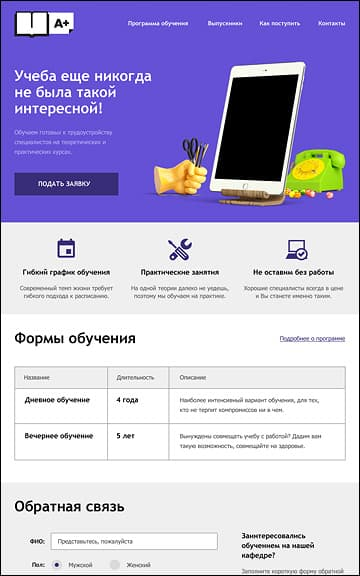
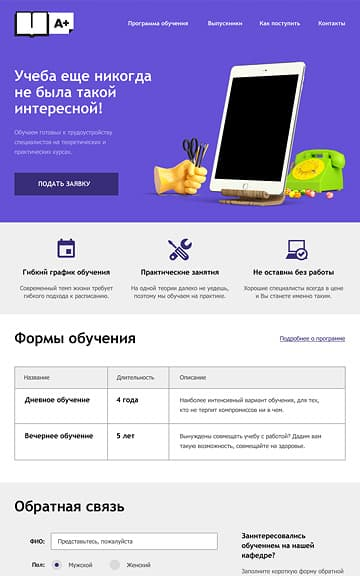
Исправляет изображение в карточках, стилизует рамку

diff --git a/css/styles.min.css b/css/styles.min.css
@@ -1,1 +1,1 @@
-@font-face{font-family:"Roboto";font-style:normal;font-weight:400;src:local("Roboto"),local("Roboto-Regular"),url(../fonts/roboto.woff2) format("woff2"),url(../fonts/roboto.woff) format("woff")}@font-face{font-family:"Roboto";font-style:normal;font-weight:500;src:local("Roboto Medium"),local("Roboto-Medium"),url(../fonts/robotomedium.woff2) format("woff2"),url(../fonts/robotomedium.woff) format("woff")}@font-face{font-family:"Roboto";font-style:normal;font-weight:700;src:local("Roboto Bold"),local("Roboto-Bold"),url(../fonts/robotobold.woff2) format("woff2"),url(../fonts/robotobold.woff) format("woff")}.visually-hidden:not(:focus):not(:active),input[type=checkbox].visually-hidden,input[type=radio].visually-hidden{border:0;clip:rect(0 0 0 0);-webkit-clip-path:inset(100%);clip-path:inset(100%);font-size:1px;height:1px;margin:-1px;overflow:hidden;padding:0;position:absolute;white-space:nowrap;width:1px}.page{position:relative;font-family:Roboto,Arial,sans-serif;background-color:#fff}.main__slider{margin-bottom:80px}.main__services{padding-bottom:82px}.main__about{margin-top:40px}.main__contacts{margin-top:80px}.main__heading{display:block;margin:0 auto;padding-top:70px;padding-bottom:110px;font-size:55px;line-height:55px;font-weight:500;text-align:center;background-color:#eee;border:.1px solid transparent}.wrapper{margin-left:auto;margin-right:auto;width:1160px}.wrapper--full-width{width:1440px}.main-header{padding-top:50px;background-color:#eee}.main-navigation{align-items:center;display:flex}.main-navigation__list{display:flex;margin:10px 0 0 200px;padding:0;width:100%;list-style:none}.main-navigation__item{margin-right:47px}.main-navigation__item:last-of-type{margin-right:0}.main-navigation__item--cart{margin-left:auto;margin-right:0}.main-navigation__link{position:relative;font-size:16px;font-weight:500;line-height:30px;text-decoration:none;text-transform:uppercase;color:inherit}.main-navigation__link:focus,.main-navigation__link:hover{color:#fb565a}.main-navigation__link:active{color:inherit;opacity:.3}.main-navigation__link--current::after{position:absolute;left:0;bottom:-13px;width:100%;height:2px;background-color:#fb565a;content:""}.main-navigation__link--cart::before{position:absolute;top:2px;left:-40px;height:15px;width:15px;background-color:transparent;background-image:url(../img/icon-cart.svg);background-position:center;background-repeat:no-repeat;content:""}.slider{background-color:#eee}.slider__list{margin:0;padding:0;list-style:none}.slider__tagline{margin:73px 0 25px;width:560px;font-size:55px;font-weight:500;line-height:55px}.slider__description{margin:0 0 40px;font-size:16px;line-height:24px}.slider__button{width:240px}.slider__item{min-height:425px;background-position:bottom right;background-repeat:no-repeat;border:.1px solid transparent}.slider__item--slide-1{background-image:url(../img/slide1.jpg);background-position:bottom right 30px}.slider__item--slide-2{background-image:url(../img/slide2.jpg)}.slider__item--slide-3{background-image:url(../img/slide3.jpg)}.services__list{display:flex;justify-content:space-between;margin:0;padding:0;width:1100px;list-style:none}.services__item{width:300px}.services__thumbnail{height:146px;width:300px;background-position:center;background-repeat:no-repeat}.services__thumbnail--web{background-color:#fb565a;background-image:url(../img/services-html.jpg)}.services__thumbnail--app{background-color:#00ca74;background-image:url(../img/services-app.jpg)}.services__thumbnail--presentation{background-color:#efc849;background-image:url(../img/services-presentation.jpg)}.services__heading{margin-bottom:17px;font-size:24px;font-weight:700;line-height:30px;text-transform:uppercase}.services__description{margin-bottom:30px;width:280px;font-size:16px;line-height:24px}.services__button{width:160px}.separator{border-bottom:2px solid #eee}.about{display:flex;padding-bottom:70px}.about__tagline{margin-top:35px;margin-bottom:33px;width:660px;font-size:45px;line-height:45px}.about__description{width:660px;margin-bottom:40px;font-size:16px;line-height:24px}.about__services-tagline{margin-bottom:23px;font-size:16px;font-weight:700;line-height:24px;text-transform:uppercase}.about__services-list{margin:0;padding:0;list-style:none}.about__services-item{position:relative;margin-left:35px;margin-bottom:25px;font-size:16px;line-height:24px}.about__services-item:last-of-type{margin-bottom:0}.about__services-item::before{position:absolute;left:-35px;top:10px;display:block;height:2px;width:25px;background-color:#fb565a;content:""}.clients__list{display:flex;align-items:center;margin:0;padding:0;list-style:none}.clients__item{position:relative;width:300px;min-height:180px}.clients__item:first-of-type{margin-left:-20px}.clients__item:last-of-type{margin-right:-20px}.clients__item::after{position:absolute;top:65px;right:0;width:2px;height:52px;background-color:#eee;content:""}.clients__item:last-of-type::after{display:none}.clients__link{display:flex;justify-content:center;align-items:center;width:100%;min-height:180px;opacity:.2}.clients__link:focus,.clients__link:hover{opacity:1}.clients__link:active{opacity:.1}.stats{margin-left:auto}.stats__table{width:360px}.stats__tagline{margin-top:34px;margin-bottom:40px;font-size:16px;line-height:24px;font-weight:700;text-transform:uppercase}.stats__item{padding-top:15px;padding-bottom:15px;width:100px;font-size:45px;line-height:10px;text-align:left;font-weight:700}.stats__percent{font-size:28px;font-weight:700}.stats__heading{padding-top:20px;font-size:16px;font-weight:400;text-align:left;line-height:18px}.contacts{position:relative}.contacts::before{position:absolute;right:390px;top:90px;display:block;height:190px;width:231px;background-image:url(../img/map-marker.png);background-repeat:no-repeat;content:""}.contacts__address{position:absolute;left:140px;top:210px;display:flex;flex-direction:column;padding-left:50px;padding-right:50px;width:calc(320px - 50px*2);min-height:308px;font-style:normal;transform:translateY(-50%);background-color:#fff}.contacts__recipient{margin:47px 0 24px;font-size:16px;font-weight:700;line-height:30px;letter-spacing:1px}.contacts__text{margin:0 0 18px;width:210px;font-size:16px;line-height:18px}.contacts__tel{margin:0 0 38px;font-size:16px;line-height:18px;text-decoration:none;color:inherit}.contacts__button{width:220px}.footer{display:flex;padding-top:70px;padding-bottom:70px}.footer__slogan{display:flex;flex-direction:column;margin:0 0 0 140px;font-size:16px;line-height:22px}.footer__tagline{display:block;margin-bottom:10px;font-size:36px;font-weight:700;line-height:36px}.social{display:flex;margin:0;padding:0;list-style:none}.social__item{margin-right:12px}.social__item:last-of-type{margin-right:0}.social__link{display:flex;justify-content:center;align-items:center;height:78px;width:78px;background-color:#e1e1e1;background-position:center;background-repeat:no-repeat;border-radius:50%}.social__link:focus,.social__link:hover{background-color:#e74246}.social__link:active{background-color:#d7373b}.social__link:active .social__icon{opacity:.5}.feedback{position:fixed;left:50%;top:50%;display:block;width:960px;background-color:#fff;box-shadow:0 20px 40px 0 rgba(0,1,1,.75);transform:translate(-50%,-50%)}.feedback__lead{margin:65px 0 43px;font-size:45px;line-height:45px;font-weight:500}.feedback__label{display:flex;flex-direction:column;font-size:16px;line-height:18px;font-weight:700}.feedback__input{width:360px;box-sizing:border-box;padding:13px;margin-top:10px}.feedback__textarea{width:760px;box-sizing:border-box;padding:13px;margin:10px auto 45px;resize:none}.feedback__input,.feedback__textarea{font-size:16px;line-height:18px;color:#000;border:2px solid #d7dcde;border-radius:2px;opacity:.5;outline:0}.feedback__input:hover,.feedback__textarea:hover{border-color:#b4b9bb}.feedback__input:focus,.feedback__textarea:focus{border-color:#000;opacity:1}.feedback__input:invalid,.feedback__textarea:invalid{color:#e74246;border-color:#e74246;box-shadow:none}.feedback__submit{margin-left:100px;margin-bottom:85px;width:260px}.feedback__close{position:absolute;top:80px;right:90px;display:block;width:21px;height:21px;background-image:url(../img/icon-cross.svg);background-repeat:no-repeat;background-color:transparent;border:0;opacity:.3}.feedback__close:focus,.feedback__close:hover{opacity:1}.feedback__close:active{opacity:.1}.feedback__wrap{width:760px;margin-left:100px}.feedback__wrap--input{display:flex;justify-content:space-between;margin-bottom:35px}.button{display:block;padding-top:15px;padding-bottom:15px;font-size:16px;line-height:18px;font-weight:500;text-align:center;text-decoration:none;text-transform:uppercase;background-color:#fb565a;border:0;border-radius:3px;color:#fff;outline:0}.button:focus,.button:hover{background-color:#e74246}.button:active{background-color:#d7373b;color:rgba(255,255,255,.3);box-shadow:0 3px 0 0 rgba(0,1,1,.1) inset}.button--app{background-color:#00ca74}.button--app:focus,.button--app:hover{background-color:#00bc6c}.button--app:active{background-color:#00aa62}.button--presentation{background-color:#efc849}.button--presentation:focus,.button--presentation:hover{background-color:#eab534}.button--presentation:active{background-color:#e5a722}.logo{opacity:1}.logo:focus,.logo:hover{opacity:.8}.logo:active{opacity:.3}.sort{display:flex;justify-content:space-between}.sort__lead{margin:0;font-size:18px;line-height:18px;font-weight:700}.sort__list{display:flex;margin:0;padding:0;align-items:center;list-style:none}.sort__item{margin-right:25px}.sort__item:last-of-type{margin-right:0}.sort__type{font-size:14px;line-height:18px;text-decoration:none;text-transform:uppercase;color:#000;opacity:.3}.sort__type--active{opacity:1}.sort__order{display:block;width:11px;height:10px;background-image:url(../img/icon-arrow.svg);background-position:center;background-repeat:no-repeat;opacity:.35}.sort__order--descending{transform:rotate(180deg)}.sort__order--active{opacity:1}.catalog{display:flex}.catalog__main-column{width:760px}.cards{display:flex;flex-wrap:wrap;margin:0;padding:0;list-style:none}.cards__item{margin-right:40px;margin-bottom:33px}.cards__item:nth-of-type(2n){margin-right:0}.cards__item:last-of-type,.cards__item:nth-last-of-type(2){margin-bottom:0}.cards__card{position:relative;width:360px}.cards__preview{position:relative;z-index:50}.cards__description{position:absolute;bottom:0;left:0;z-index:10;display:flex;flex-direction:column;align-items:center;min-height:231px;width:100%;padding-top:25px;background-color:#eee}.cards__card:hover .cards__description{z-index:100}.cards__link{text-decoration:none;color:#000}.cards__heading{margin:0 0 5px;font-size:18px;line-height:30px;font-weight:700;text-transform:uppercase;color:inherit}.cards__text{margin:0 0 10px;width:240px;font-size:16px;line-height:18px;text-align:center;color:#666}.cards__button{width:200px;margin-bottom:44px}
+@font-face{font-family:"Roboto";font-style:normal;font-weight:400;src:local("Roboto"),local("Roboto-Regular"),url(../fonts/roboto.woff2) format("woff2"),url(../fonts/roboto.woff) format("woff")}@font-face{font-family:"Roboto";font-style:normal;font-weight:500;src:local("Roboto Medium"),local("Roboto-Medium"),url(../fonts/robotomedium.woff2) format("woff2"),url(../fonts/robotomedium.woff) format("woff")}@font-face{font-family:"Roboto";font-style:normal;font-weight:700;src:local("Roboto Bold"),local("Roboto-Bold"),url(../fonts/robotobold.woff2) format("woff2"),url(../fonts/robotobold.woff) format("woff")}.visually-hidden:not(:focus):not(:active),input[type=checkbox].visually-hidden,input[type=radio].visually-hidden{border:0;clip:rect(0 0 0 0);-webkit-clip-path:inset(100%);clip-path:inset(100%);font-size:1px;height:1px;margin:-1px;overflow:hidden;padding:0;position:absolute;white-space:nowrap;width:1px}.page{position:relative;font-family:Roboto,Arial,sans-serif;background-color:#fff}.main__slider{margin-bottom:80px}.main__services{padding-bottom:82px}.main__about{margin-top:40px}.main__contacts{margin-top:80px}.main__heading{display:block;margin:0 auto;padding-top:70px;padding-bottom:110px;font-size:55px;line-height:55px;font-weight:500;text-align:center;background-color:#eee;border:.1px solid transparent}.wrapper{margin-left:auto;margin-right:auto;width:1160px}.wrapper--full-width{width:1440px}.main-header{padding-top:50px;background-color:#eee}.main-navigation{align-items:center;display:flex}.main-navigation__list{display:flex;margin:10px 0 0 200px;padding:0;width:100%;list-style:none}.main-navigation__item{margin-right:47px}.main-navigation__item:last-of-type{margin-right:0}.main-navigation__item--cart{margin-left:auto;margin-right:0}.main-navigation__link{position:relative;font-size:16px;font-weight:500;line-height:30px;text-decoration:none;text-transform:uppercase;color:inherit}.main-navigation__link:focus,.main-navigation__link:hover{color:#fb565a}.main-navigation__link:active{color:inherit;opacity:.3}.main-navigation__link--current::after{position:absolute;left:0;bottom:-13px;width:100%;height:2px;background-color:#fb565a;content:""}.main-navigation__link--cart::before{position:absolute;top:2px;left:-40px;height:15px;width:15px;background-color:transparent;background-image:url(../img/icon-cart.svg);background-position:center;background-repeat:no-repeat;content:""}.slider{background-color:#eee}.slider__list{margin:0;padding:0;list-style:none}.slider__tagline{margin:73px 0 25px;width:560px;font-size:55px;font-weight:500;line-height:55px}.slider__description{margin:0 0 40px;font-size:16px;line-height:24px}.slider__button{width:240px}.slider__item{min-height:425px;background-position:bottom right;background-repeat:no-repeat;border:.1px solid transparent}.slider__item--slide-1{background-image:url(../img/slide1.jpg);background-position:bottom right 30px}.slider__item--slide-2{background-image:url(../img/slide2.jpg)}.slider__item--slide-3{background-image:url(../img/slide3.jpg)}.services__list{display:flex;justify-content:space-between;margin:0;padding:0;width:1100px;list-style:none}.services__item{width:300px}.services__thumbnail{height:146px;width:300px;background-position:center;background-repeat:no-repeat}.services__thumbnail--web{background-color:#fb565a;background-image:url(../img/services-html.jpg)}.services__thumbnail--app{background-color:#00ca74;background-image:url(../img/services-app.jpg)}.services__thumbnail--presentation{background-color:#efc849;background-image:url(../img/services-presentation.jpg)}.services__heading{margin-bottom:17px;font-size:24px;font-weight:700;line-height:30px;text-transform:uppercase}.services__description{margin-bottom:30px;width:280px;font-size:16px;line-height:24px}.services__button{width:160px}.separator{border-bottom:2px solid #eee}.about{display:flex;padding-bottom:70px}.about__tagline{margin-top:35px;margin-bottom:33px;width:660px;font-size:45px;line-height:45px}.about__description{width:660px;margin-bottom:40px;font-size:16px;line-height:24px}.about__services-tagline{margin-bottom:23px;font-size:16px;font-weight:700;line-height:24px;text-transform:uppercase}.about__services-list{margin:0;padding:0;list-style:none}.about__services-item{position:relative;margin-left:35px;margin-bottom:25px;font-size:16px;line-height:24px}.about__services-item:last-of-type{margin-bottom:0}.about__services-item::before{position:absolute;left:-35px;top:10px;display:block;height:2px;width:25px;background-color:#fb565a;content:""}.clients__list{display:flex;align-items:center;margin:0;padding:0;list-style:none}.clients__item{position:relative;width:300px;min-height:180px}.clients__item:first-of-type{margin-left:-20px}.clients__item:last-of-type{margin-right:-20px}.clients__item::after{position:absolute;top:65px;right:0;width:2px;height:52px;background-color:#eee;content:""}.clients__item:last-of-type::after{display:none}.clients__link{display:flex;justify-content:center;align-items:center;width:100%;min-height:180px;opacity:.2}.clients__link:focus,.clients__link:hover{opacity:1}.clients__link:active{opacity:.1}.stats{margin-left:auto}.stats__table{width:360px}.stats__tagline{margin-top:34px;margin-bottom:40px;font-size:16px;line-height:24px;font-weight:700;text-transform:uppercase}.stats__item{padding-top:15px;padding-bottom:15px;width:100px;font-size:45px;line-height:10px;text-align:left;font-weight:700}.stats__percent{font-size:28px;font-weight:700}.stats__heading{padding-top:20px;font-size:16px;font-weight:400;text-align:left;line-height:18px}.contacts{position:relative}.contacts::before{position:absolute;right:390px;top:90px;display:block;height:190px;width:231px;background-image:url(../img/map-marker.png);background-repeat:no-repeat;content:""}.contacts__address{position:absolute;left:140px;top:210px;display:flex;flex-direction:column;padding-left:50px;padding-right:50px;width:calc(320px - 50px*2);min-height:308px;font-style:normal;transform:translateY(-50%);background-color:#fff}.contacts__recipient{margin:47px 0 24px;font-size:16px;font-weight:700;line-height:30px;letter-spacing:1px}.contacts__text{margin:0 0 18px;width:210px;font-size:16px;line-height:18px}.contacts__tel{margin:0 0 38px;font-size:16px;line-height:18px;text-decoration:none;color:inherit}.contacts__button{width:220px}.footer{display:flex;padding-top:70px;padding-bottom:70px}.footer__slogan{display:flex;flex-direction:column;margin:0 0 0 140px;font-size:16px;line-height:22px}.footer__tagline{display:block;margin-bottom:10px;font-size:36px;font-weight:700;line-height:36px}.social{display:flex;margin:0;padding:0;list-style:none}.social__item{margin-right:12px}.social__item:last-of-type{margin-right:0}.social__link{display:flex;justify-content:center;align-items:center;height:78px;width:78px;background-color:#e1e1e1;background-position:center;background-repeat:no-repeat;border-radius:50%}.social__link:focus,.social__link:hover{background-color:#e74246}.social__link:active{background-color:#d7373b}.social__link:active .social__icon{opacity:.5}.feedback{position:fixed;left:50%;top:50%;display:block;width:960px;background-color:#fff;box-shadow:0 20px 40px 0 rgba(0,1,1,.75);transform:translate(-50%,-50%)}.feedback__lead{margin:65px 0 43px;font-size:45px;line-height:45px;font-weight:500}.feedback__label{display:flex;flex-direction:column;font-size:16px;line-height:18px;font-weight:700}.feedback__input{width:360px;box-sizing:border-box;padding:13px;margin-top:10px}.feedback__textarea{width:760px;box-sizing:border-box;padding:13px;margin:10px auto 45px;resize:none}.feedback__input,.feedback__textarea{font-size:16px;line-height:18px;color:#000;border:2px solid #d7dcde;border-radius:2px;opacity:.5;outline:0}.feedback__input:hover,.feedback__textarea:hover{border-color:#b4b9bb}.feedback__input:focus,.feedback__textarea:focus{border-color:#000;opacity:1}.feedback__input:invalid,.feedback__textarea:invalid{color:#e74246;border-color:#e74246;box-shadow:none}.feedback__submit{margin-left:100px;margin-bottom:85px;width:260px}.feedback__close{position:absolute;top:80px;right:90px;display:block;width:21px;height:21px;background-image:url(../img/icon-cross.svg);background-repeat:no-repeat;background-color:transparent;border:0;opacity:.3}.feedback__close:focus,.feedback__close:hover{opacity:1}.feedback__close:active{opacity:.1}.feedback__wrap{width:760px;margin-left:100px}.feedback__wrap--input{display:flex;justify-content:space-between;margin-bottom:35px}.button{display:block;padding-top:15px;padding-bottom:15px;font-size:16px;line-height:18px;font-weight:500;text-align:center;text-decoration:none;text-transform:uppercase;background-color:#fb565a;border:0;border-radius:3px;color:#fff;outline:0}.button:focus,.button:hover{background-color:#e74246}.button:active{background-color:#d7373b;color:rgba(255,255,255,.3);box-shadow:0 3px 0 0 rgba(0,1,1,.1) inset}.button--app{background-color:#00ca74}.button--app:focus,.button--app:hover{background-color:#00bc6c}.button--app:active{background-color:#00aa62}.button--presentation{background-color:#efc849}.button--presentation:focus,.button--presentation:hover{background-color:#eab534}.button--presentation:active{background-color:#e5a722}.logo{opacity:1}.logo:focus,.logo:hover{opacity:.8}.logo:active{opacity:.3}.sort{display:flex;justify-content:space-between}.sort__lead{margin:0;font-size:18px;line-height:18px;font-weight:700}.sort__list{display:flex;margin:0;padding:0;align-items:center;list-style:none}.sort__item{margin-right:25px}.sort__item:last-of-type{margin-right:0}.sort__type{font-size:14px;line-height:18px;text-decoration:none;text-transform:uppercase;color:#000;opacity:.3}.sort__type--active{opacity:1}.sort__order{display:block;width:11px;height:10px;background-image:url(../img/icon-arrow.svg);background-position:center;background-repeat:no-repeat;opacity:.35}.sort__order--descending{transform:rotate(180deg)}.cards__card:hover::before,.sort__order--active{opacity:1}.catalog{display:flex}.catalog__main-column{width:760px}.cards{display:flex;flex-wrap:wrap;margin:0;padding:0;list-style:none}.cards__item{margin-right:40px;margin-bottom:33px}.cards__item:nth-of-type(2n){margin-right:0}.cards__item:last-of-type,.cards__item:nth-last-of-type(2){margin-bottom:0}.cards__card{position:relative;width:360px;margin-top:40px;box-sizing:border-box}.cards__card::after,.cards__card::before{position:absolute;left:0;width:100%;content:""}.cards__card::before{background-image:url(../img/cards-top.svg);background-position:center;background-repeat:no-repeat;opacity:.12;top:-40px;height:40px}.cards__card::after{top:0;z-index:50;display:block;height:100%;box-shadow:inset -1px -1px 0 #e5e5e5,inset 1px 1px 0 #e5e5e5}.cards__preview{position:relative;z-index:50}.cards__description{position:absolute;bottom:0;left:0;z-index:10;display:flex;flex-direction:column;align-items:center;box-sizing:border-box;min-height:231px;width:100%;padding-top:25px;background-color:#eee}.cards__card:hover .cards__description{z-index:100}.cards__link{text-decoration:none;color:#000}.cards__heading{margin:0 0 5px;font-size:18px;line-height:30px;font-weight:700;text-transform:uppercase;color:inherit}.cards__text{margin:0 0 10px;width:240px;font-size:16px;line-height:18px;text-align:center;color:#666}.cards__button{width:200px;margin-bottom:44px}

diff --git a/src/styles/blocks/cards.css b/src/styles/blocks/cards.css
@@ -25,12 +25,50 @@
   position: relative;
 
   width: 360px;
+  margin-top: 40px;
+  box-sizing: border-box;
+}
+
+.cards__card::before {
+  position: absolute;
+  top: -40px;
+  left: 0;
+
+  height: 40px;
+  width: 100%;
+
+  background-image: url("../../img/cards-top.svg");
+  background-position: center;
+  background-repeat: no-repeat;
+  opacity: 0.12;
+
+  content: "";
+}
+
+.cards__card:hover::before {
+  opacity: 1;
+}
+
+.cards__card::after {
+  position: absolute;
+  top: 0;
+  left: 0;
+  z-index: 50;
+
+  display: block;
+  width: 100%;
+  height: 100%;
+
+  box-shadow: inset -1px -1px 0 #e5e5e5, inset 1px 1px 0 #e5e5e5;
+
+  content: "";
 }
 
 .cards__preview {
   position: relative;
   z-index: 50;
 }
+
 
 .cards__description {
   position: absolute;
@@ -41,6 +79,7 @@
   display: flex;
   flex-direction: column;
   align-items: center;
+  box-sizing: border-box;
   min-height: 231px;
   width: 100%;
   padding-top: 25px;

diff --git a/css/styles.css b/css/styles.css
@@ -822,6 +822,37 @@ input[type="radio"].visually-hidden {
 .cards__card {
   position: relative;
   width: 360px;
+  margin-top: 40px;
+  box-sizing: border-box;
+}
+
+.cards__card::before {
+  position: absolute;
+  top: -40px;
+  left: 0;
+  height: 40px;
+  width: 100%;
+  background-image: url("../img/cards-top.svg");
+  background-position: center;
+  background-repeat: no-repeat;
+  opacity: 0.12;
+  content: "";
+}
+
+.cards__card:hover::before {
+  opacity: 1;
+}
+
+.cards__card::after {
+  position: absolute;
+  top: 0;
+  left: 0;
+  z-index: 50;
+  display: block;
+  width: 100%;
+  height: 100%;
+  box-shadow: inset -1px -1px 0 #e5e5e5, inset 1px 1px 0 #e5e5e5;
+  content: "";
 }
 
 .cards__preview {
@@ -837,6 +868,7 @@ input[type="radio"].visually-hidden {
   display: flex;
   flex-direction: column;
   align-items: center;
+  box-sizing: border-box;
   min-height: 231px;
   width: 100%;
   padding-top: 25px;
